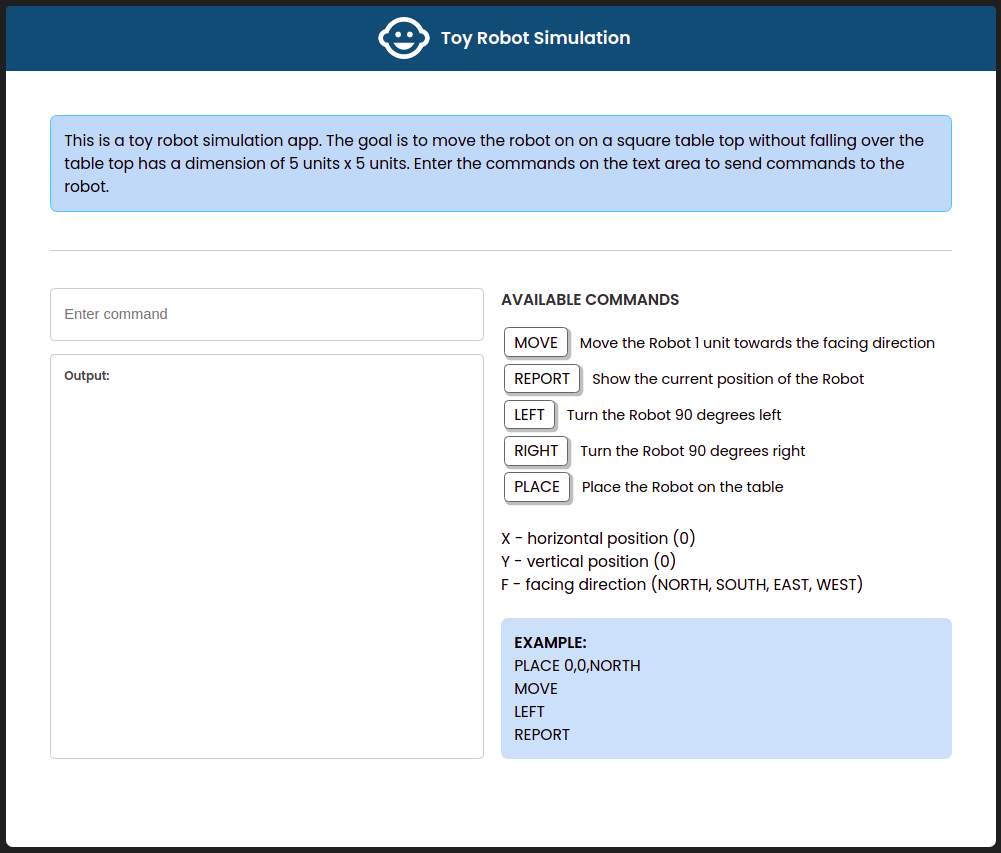
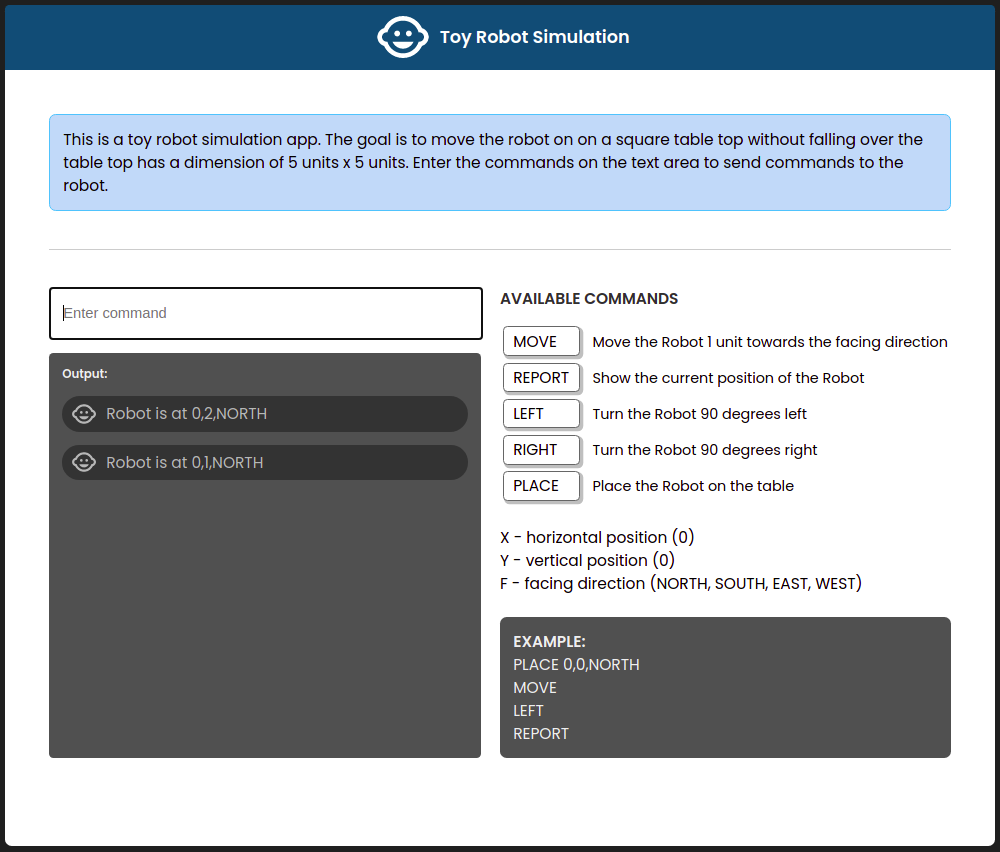
updates/css - Change readme screenshot - Change output background to dark

diff --git a/src/app/components/CommandOutput/style.ts b/src/app/components/CommandOutput/style.ts
@@ -2,7 +2,7 @@ import styled from 'styled-components'
 
 const Output = styled.div`
     height: 100%;
-    border: 1px solid #ccc;
+    background: #505050;
     padding: 0 12px 12px;
     border-radius: 4px;
     width: 90%;
@@ -12,7 +12,7 @@ const Output = styled.div`
 
 const OutputTitle = styled.h6`
     margin: 12px 0;
-    color: #444;
+    color: #eee;
 `
 
 const OutputBody = styled.div`
@@ -28,12 +28,12 @@ const OutputBody = styled.div`
 const OutputItem = styled.div`
     margin-bottom: 12px;
     font-size: 14px;
-    background: #c6f0c7;
+    background: #333333;
     padding: 4px 4px 4px 8px;
     border-radius: 24px;
     display: flex;
     align-items: center;
-    color: #169419;
+    color: #b7b7b7;
     justify-content: space-between;
 `
 

diff --git a/src/app/components/ToyRobotSimulator/style.tsx b/src/app/components/ToyRobotSimulator/style.tsx
@@ -72,6 +72,7 @@ const Caption = styled.div`
 
 const CommandBadge = styled.div`
     font-size: 14px;
+    min-width: 70px;
     text-transform: uppercase;
     background: #ffffff;
     border: 1px solid #666;
@@ -97,10 +98,15 @@ const CommandList = styled.ul`
 `
 
 const ExampleBlock = styled.div`
-    background: #a8cef491;
+    background: #505050;
     border-radius: 6px;
     padding: 12px;
     margin-top: 20px;
+
+    li {
+        font-size: 14px;
+        color: #eee;
+    }
 `
 
 const FormWrapper = styled.div`
